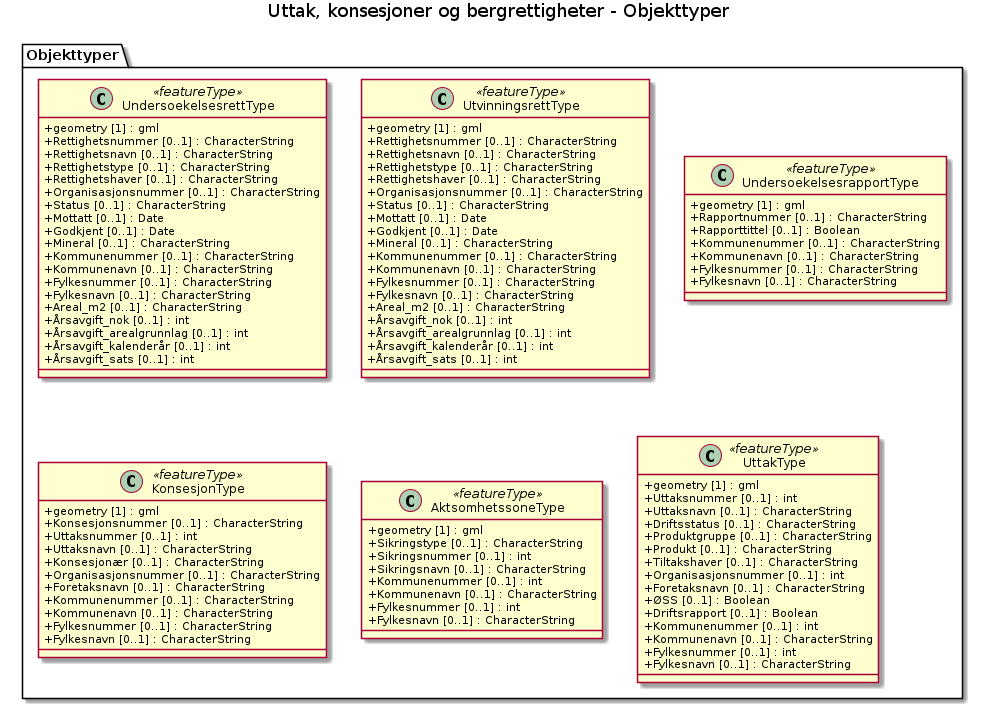
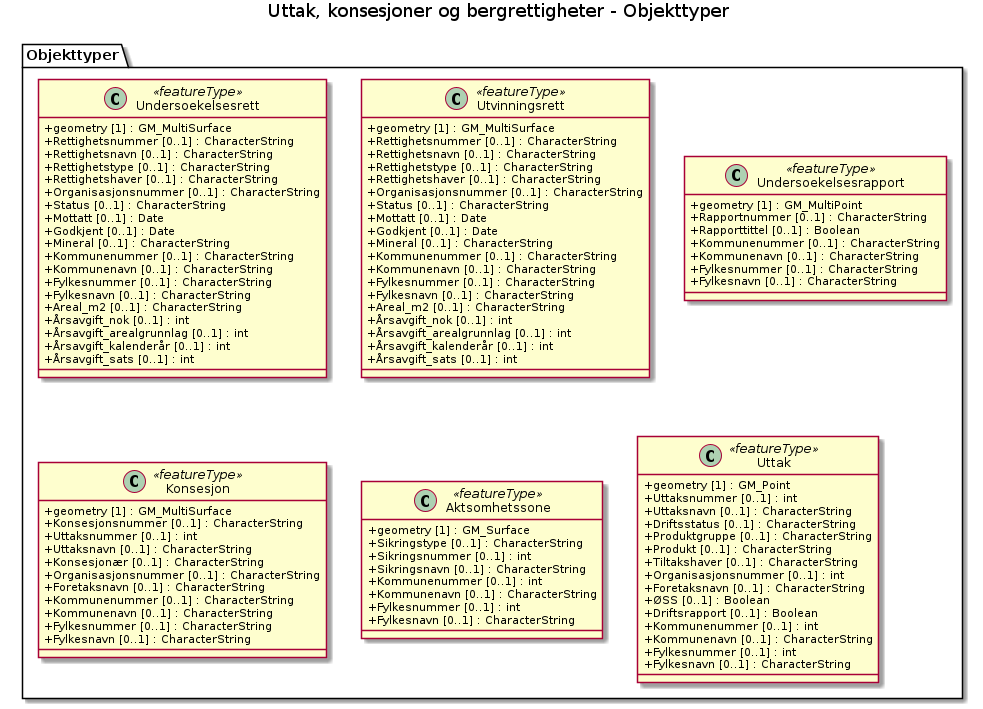
update produktspesifikasjon

diff --git a/produktspesifikasjon/uttak/index.md b/produktspesifikasjon/uttak/index.md
@@ -69,10 +69,10 @@ Nedlastbare data om uttak, konsesjoner og bergrettigheter som faller innenfor Di
 
 ![Uttak feature catalogue](uttak_feature_catalogue.png)
 
-#### UndersoekelsesrettType
+#### Undersoekelsesrett
 
 Geometri:
-- type: gml
+- type: GM_MultiSurface
 - crs:
   - <a href="http://www.opengis.net/def/crs/OGC/1.3/CRS84"><http://www.opengis.net/def/crs/OGC/1.3/CRS84></a>
   - <a href="http://www.opengis.net/def/crs/EPSG/0/25833"><http://www.opengis.net/def/crs/EPSG/0/25833></a>
@@ -94,7 +94,7 @@ Egenskaper
     </tr>
     <tr>
       <th scope="row">Type:</th>
-      <td>gml</td>
+      <td>GM_MultiSurface</td>
     </tr>
   </tbody>
 </table>
@@ -477,10 +477,10 @@ Egenskaper
   </tbody>
 </table>
 
-#### UtvinningsrettType
+#### Utvinningsrett
 
 Geometri:
-- type: gml
+- type: GM_MultiSurface
 - crs:
   - <a href="http://www.opengis.net/def/crs/OGC/1.3/CRS84"><http://www.opengis.net/def/crs/OGC/1.3/CRS84></a>
   - <a href="http://www.opengis.net/def/crs/EPSG/0/25833"><http://www.opengis.net/def/crs/EPSG/0/25833></a>
@@ -502,7 +502,7 @@ Egenskaper
     </tr>
     <tr>
       <th scope="row">Type:</th>
-      <td>gml</td>
+      <td>GM_MultiSurface</td>
     </tr>
   </tbody>
 </table>
@@ -885,10 +885,10 @@ Egenskaper
   </tbody>
 </table>
 
-#### UndersoekelsesrapportType
+#### Undersoekelsesrapport
 
 Geometri:
-- type: gml
+- type: GM_MultiPoint
 - crs:
   - <a href="http://www.opengis.net/def/crs/OGC/1.3/CRS84"><http://www.opengis.net/def/crs/OGC/1.3/CRS84></a>
   - <a href="http://www.opengis.net/def/crs/EPSG/0/25833"><http://www.opengis.net/def/crs/EPSG/0/25833></a>
@@ -910,7 +910,7 @@ Egenskaper
     </tr>
     <tr>
       <th scope="row">Type:</th>
-      <td>gml</td>
+      <td>GM_MultiPoint</td>
     </tr>
   </tbody>
 </table>
@@ -1041,10 +1041,10 @@ Egenskaper
   </tbody>
 </table>
 
-#### KonsesjonType
+#### Konsesjon
 
 Geometri:
-- type: gml
+- type: GM_MultiSurface
 - crs:
   - <a href="http://www.opengis.net/def/crs/OGC/1.3/CRS84"><http://www.opengis.net/def/crs/OGC/1.3/CRS84></a>
   - <a href="http://www.opengis.net/def/crs/EPSG/0/25833"><http://www.opengis.net/def/crs/EPSG/0/25833></a>
@@ -1066,7 +1066,7 @@ Egenskaper
     </tr>
     <tr>
       <th scope="row">Type:</th>
-      <td>gml</td>
+      <td>GM_MultiSurface</td>
     </tr>
   </tbody>
 </table>
@@ -1281,10 +1281,10 @@ Egenskaper
   </tbody>
 </table>
 
-#### AktsomhetssoneType
+#### Aktsomhetssone
 
 Geometri:
-- type: gml
+- type: GM_Surface
 - crs:
   - <a href="http://www.opengis.net/def/crs/OGC/1.3/CRS84"><http://www.opengis.net/def/crs/OGC/1.3/CRS84></a>
   - <a href="http://www.opengis.net/def/crs/EPSG/0/25833"><http://www.opengis.net/def/crs/EPSG/0/25833></a>
@@ -1306,7 +1306,7 @@ Egenskaper
     </tr>
     <tr>
       <th scope="row">Type:</th>
-      <td>gml</td>
+      <td>GM_Surface</td>
     </tr>
   </tbody>
 </table>
@@ -1458,10 +1458,10 @@ Egenskaper
   </tbody>
 </table>
 
-#### UttakType
+#### Uttak
 
 Geometri:
-- type: gml
+- type: GM_Point
 - crs:
   - <a href="http://www.opengis.net/def/crs/OGC/1.3/CRS84"><http://www.opengis.net/def/crs/OGC/1.3/CRS84></a>
   - <a href="http://www.opengis.net/def/crs/EPSG/0/25833"><http://www.opengis.net/def/crs/EPSG/0/25833></a>
@@ -1483,7 +1483,7 @@ Egenskaper
     </tr>
     <tr>
       <th scope="row">Type:</th>
-      <td>gml</td>
+      <td>GM_Point</td>
     </tr>
   </tbody>
 </table>

diff --git a/produktspesifikasjon/uttak/uttak_feature_catalogue.md b/produktspesifikasjon/uttak/uttak_feature_catalogue.md
@@ -1,7 +1,7 @@
-#### UndersoekelsesrettType
+#### Undersoekelsesrett
 
 Geometri:
-- type: gml
+- type: GM_MultiSurface
 - crs:
   - <a href="http://www.opengis.net/def/crs/OGC/1.3/CRS84">http://www.opengis.net/def/crs/OGC/1.3/CRS84</a>
   - <a href="http://www.opengis.net/def/crs/EPSG/0/25833">http://www.opengis.net/def/crs/EPSG/0/25833</a>
@@ -23,7 +23,7 @@ Egenskaper
     </tr>
     <tr>
       <th scope="row">Type:</th>
-      <td>gml</td>
+      <td>GM_MultiSurface</td>
     </tr>
   </tbody>
 </table>
@@ -406,10 +406,10 @@ Egenskaper
   </tbody>
 </table>
 
-#### UtvinningsrettType
+#### Utvinningsrett
 
 Geometri:
-- type: gml
+- type: GM_MultiSurface
 - crs:
   - <a href="http://www.opengis.net/def/crs/OGC/1.3/CRS84">http://www.opengis.net/def/crs/OGC/1.3/CRS84</a>
   - <a href="http://www.opengis.net/def/crs/EPSG/0/25833">http://www.opengis.net/def/crs/EPSG/0/25833</a>
@@ -431,7 +431,7 @@ Egenskaper
     </tr>
     <tr>
       <th scope="row">Type:</th>
-      <td>gml</td>
+      <td>GM_MultiSurface</td>
     </tr>
   </tbody>
 </table>
@@ -814,10 +814,10 @@ Egenskaper
   </tbody>
 </table>
 
-#### UndersoekelsesrapportType
+#### Undersoekelsesrapport
 
 Geometri:
-- type: gml
+- type: GM_MultiPoint
 - crs:
   - <a href="http://www.opengis.net/def/crs/OGC/1.3/CRS84">http://www.opengis.net/def/crs/OGC/1.3/CRS84</a>
   - <a href="http://www.opengis.net/def/crs/EPSG/0/25833">http://www.opengis.net/def/crs/EPSG/0/25833</a>
@@ -839,7 +839,7 @@ Egenskaper
     </tr>
     <tr>
       <th scope="row">Type:</th>
-      <td>gml</td>
+      <td>GM_MultiPoint</td>
     </tr>
   </tbody>
 </table>
@@ -970,10 +970,10 @@ Egenskaper
   </tbody>
 </table>
 
-#### KonsesjonType
+#### Konsesjon
 
 Geometri:
-- type: gml
+- type: GM_MultiSurface
 - crs:
   - <a href="http://www.opengis.net/def/crs/OGC/1.3/CRS84">http://www.opengis.net/def/crs/OGC/1.3/CRS84</a>
   - <a href="http://www.opengis.net/def/crs/EPSG/0/25833">http://www.opengis.net/def/crs/EPSG/0/25833</a>
@@ -995,7 +995,7 @@ Egenskaper
     </tr>
     <tr>
       <th scope="row">Type:</th>
-      <td>gml</td>
+      <td>GM_MultiSurface</td>
     </tr>
   </tbody>
 </table>
@@ -1210,10 +1210,10 @@ Egenskaper
   </tbody>
 </table>
 
-#### AktsomhetssoneType
+#### Aktsomhetssone
 
 Geometri:
-- type: gml
+- type: GM_Surface
 - crs:
   - <a href="http://www.opengis.net/def/crs/OGC/1.3/CRS84">http://www.opengis.net/def/crs/OGC/1.3/CRS84</a>
   - <a href="http://www.opengis.net/def/crs/EPSG/0/25833">http://www.opengis.net/def/crs/EPSG/0/25833</a>
@@ -1235,7 +1235,7 @@ Egenskaper
     </tr>
     <tr>
       <th scope="row">Type:</th>
-      <td>gml</td>
+      <td>GM_Surface</td>
     </tr>
   </tbody>
 </table>
@@ -1387,10 +1387,10 @@ Egenskaper
   </tbody>
 </table>
 
-#### UttakType
+#### Uttak
 
 Geometri:
-- type: gml
+- type: GM_Point
 - crs:
   - <a href="http://www.opengis.net/def/crs/OGC/1.3/CRS84">http://www.opengis.net/def/crs/OGC/1.3/CRS84</a>
   - <a href="http://www.opengis.net/def/crs/EPSG/0/25833">http://www.opengis.net/def/crs/EPSG/0/25833</a>
@@ -1412,7 +1412,7 @@ Egenskaper
     </tr>
     <tr>
       <th scope="row">Type:</th>
-      <td>gml</td>
+      <td>GM_Point</td>
     </tr>
   </tbody>
 </table>
